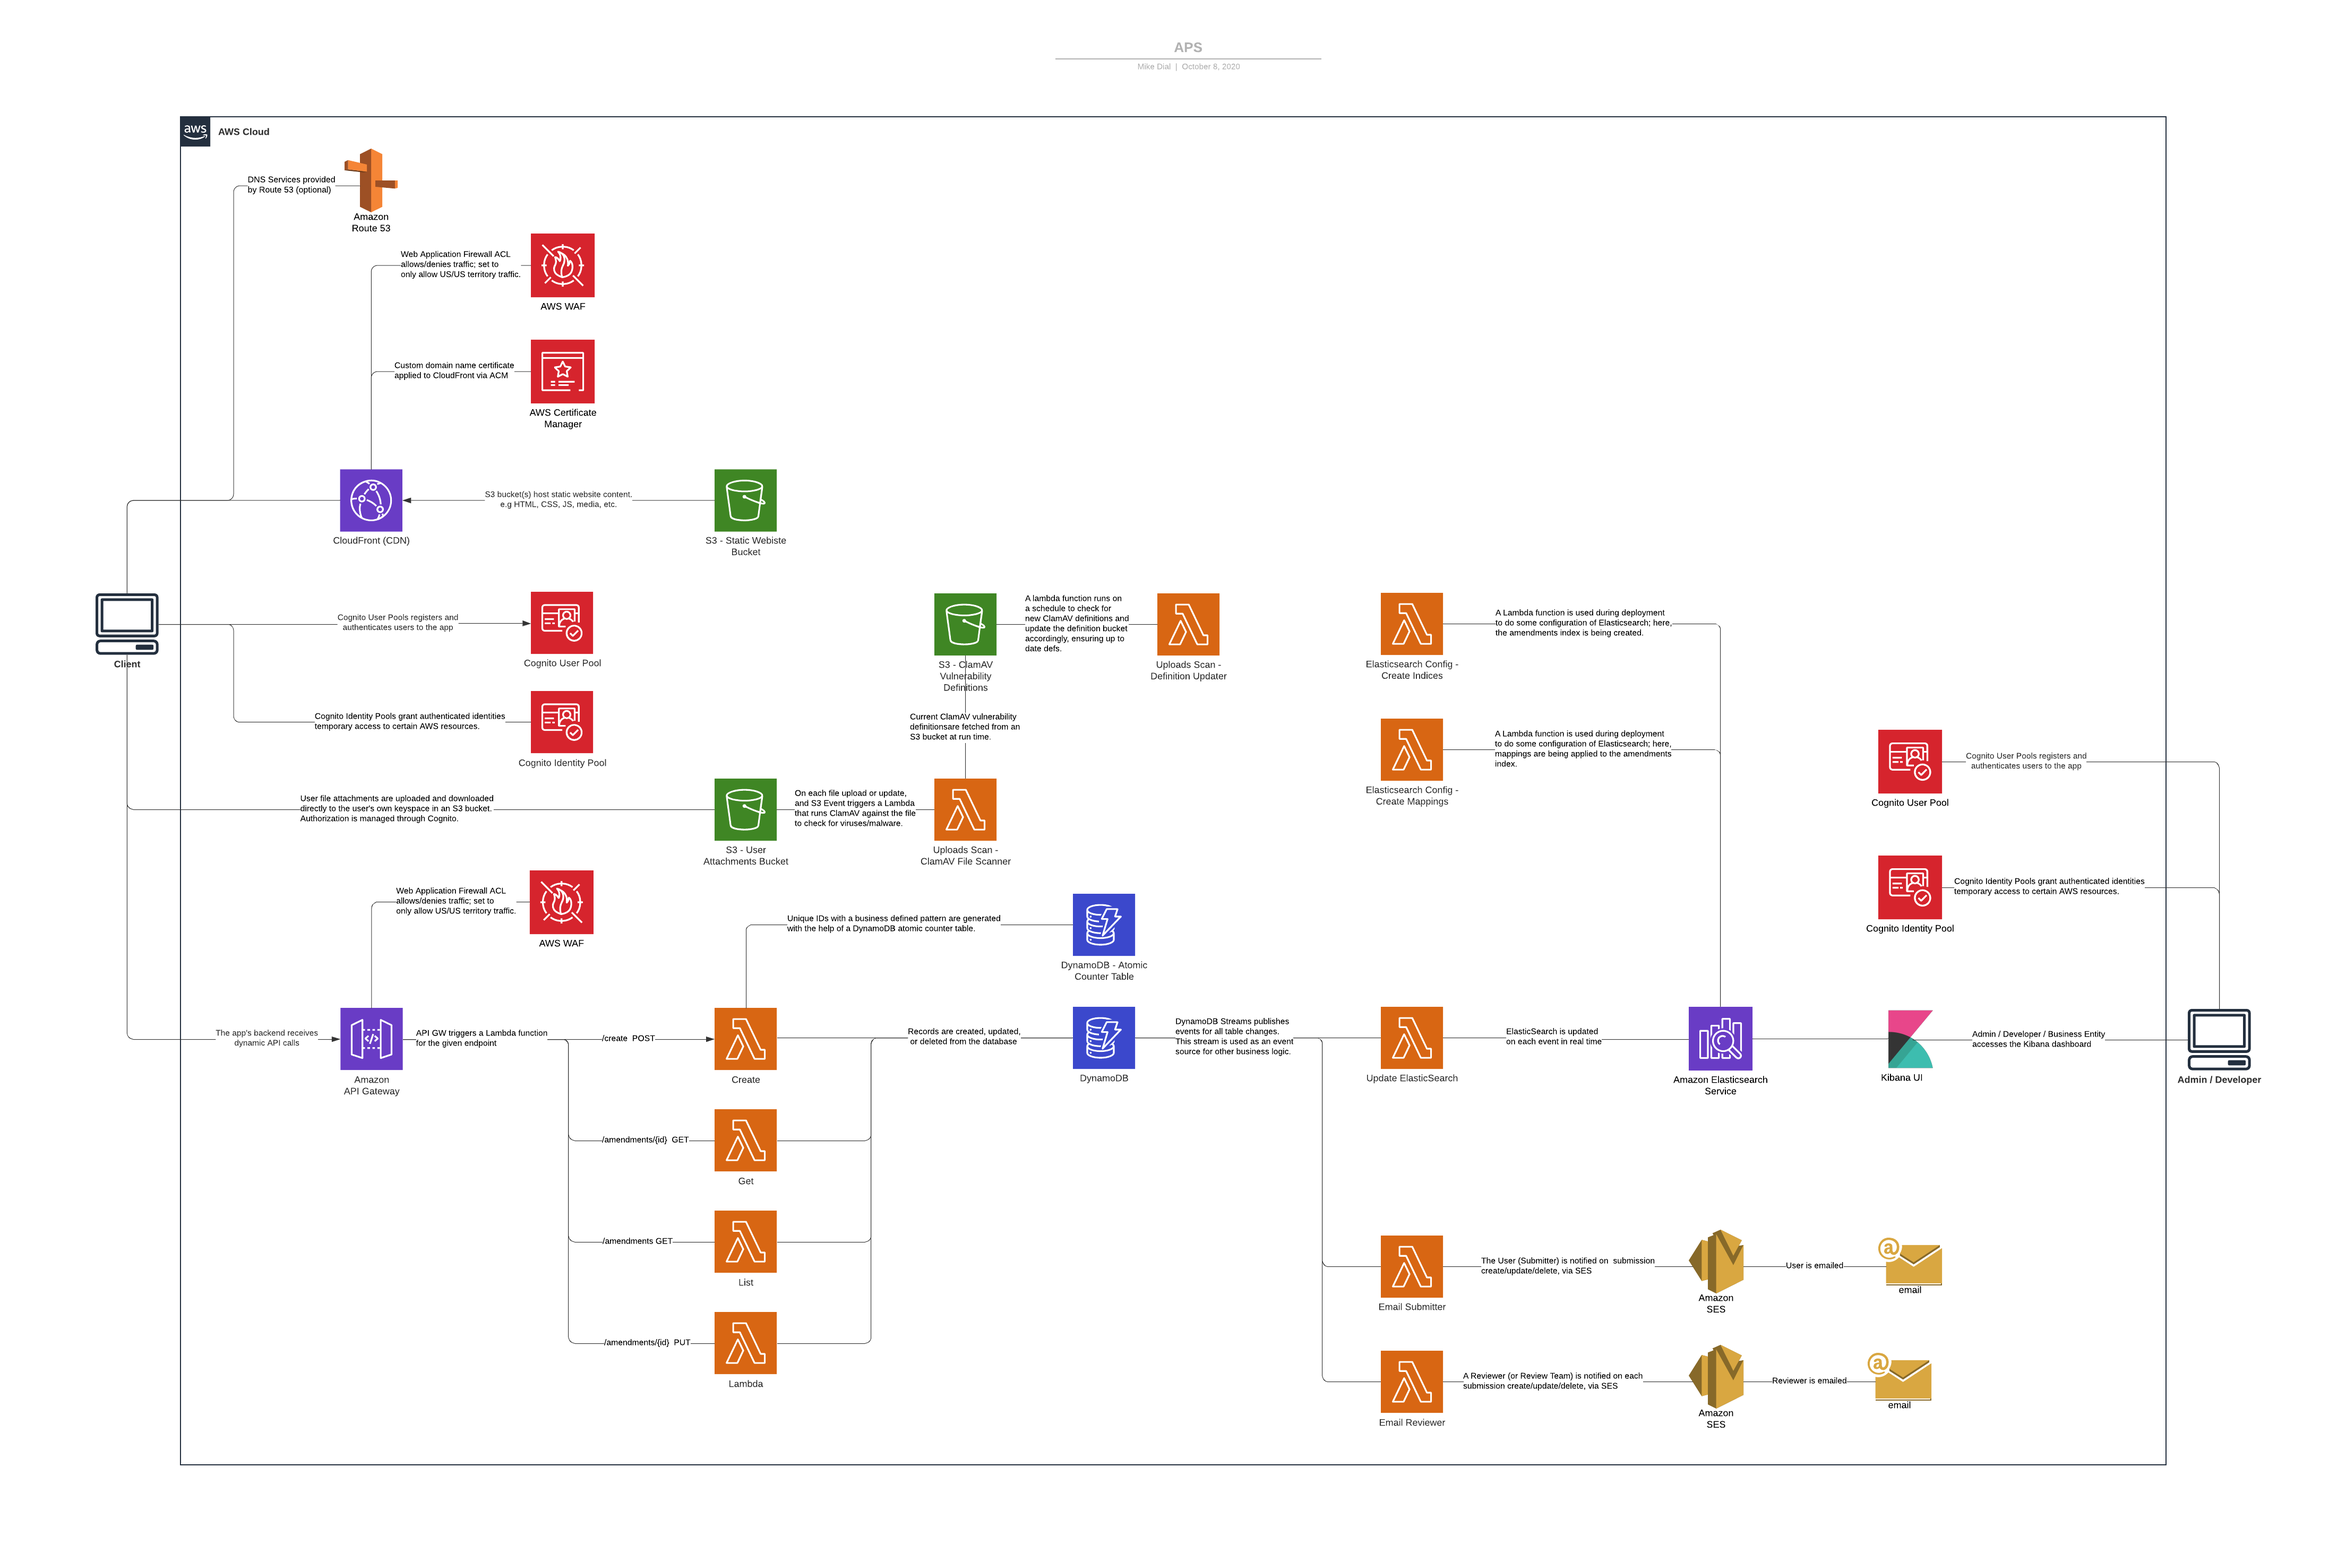
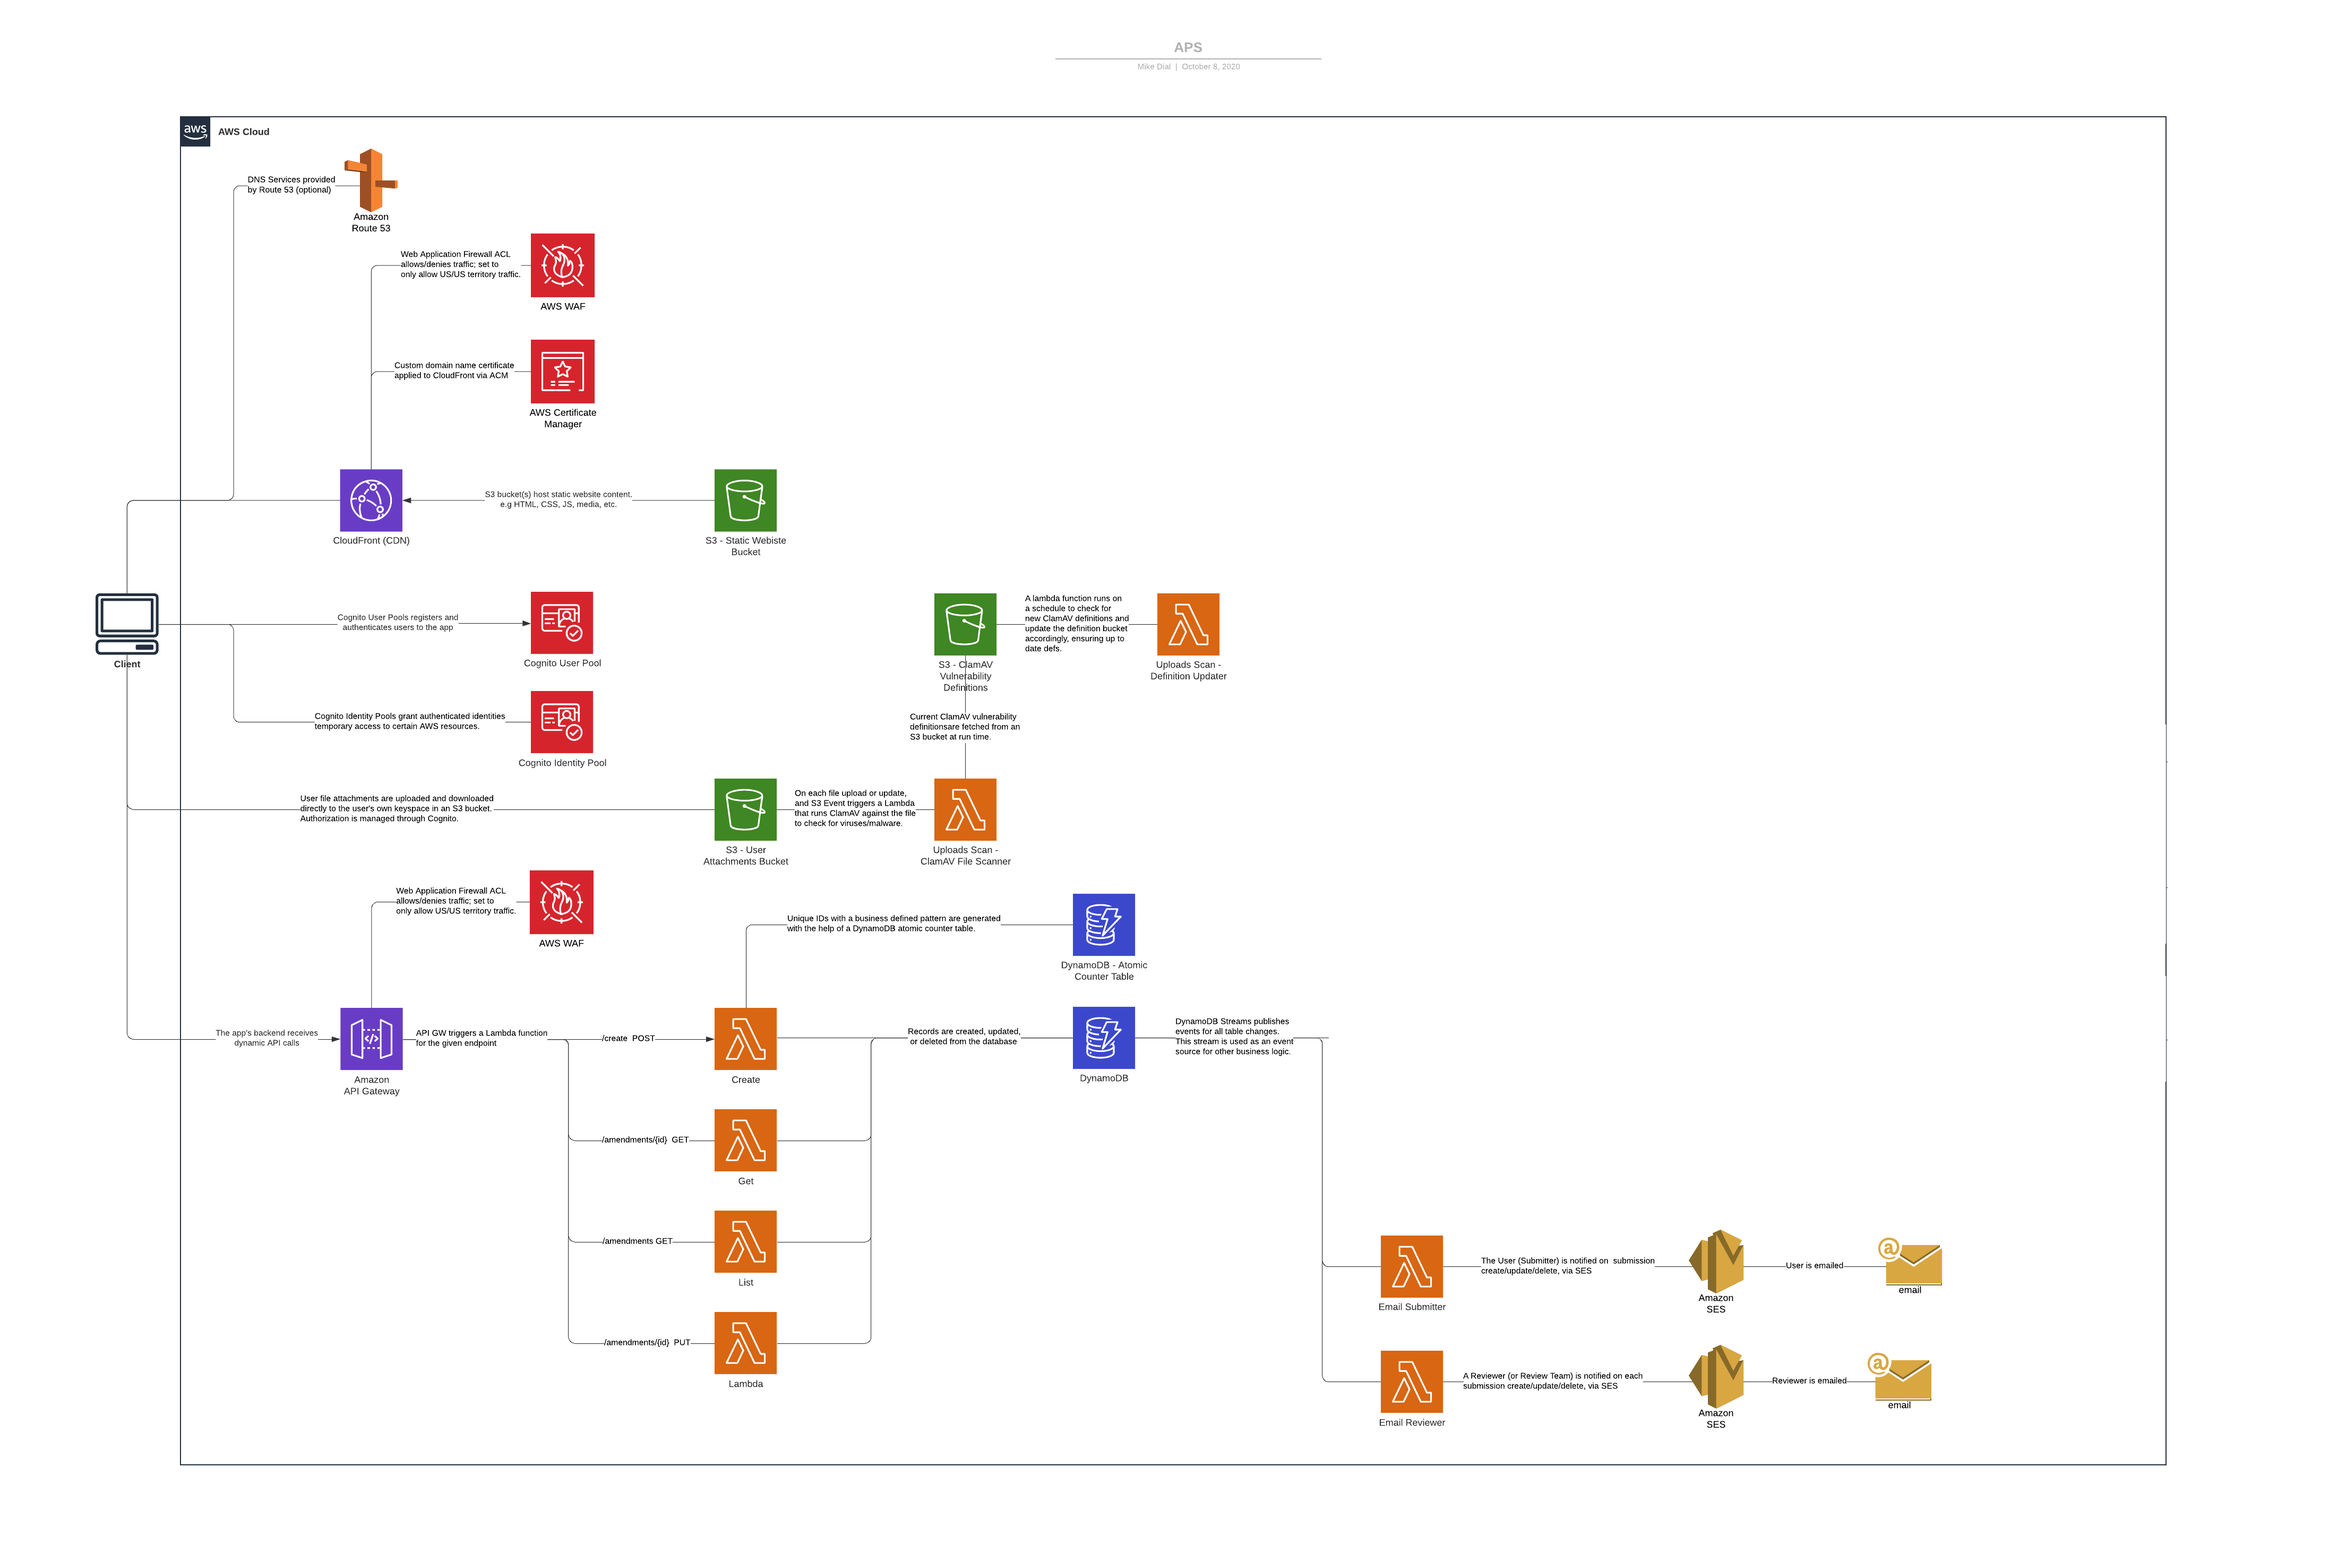
Removed references of Elasticsearch and updated Architecture Diagram

diff --git a/services/stream-functions/handlers/elasticsearchIndexer.js b/services/stream-functions/handlers/elasticsearchIndexer.js
@@ -1,5 +1,3 @@
-const { pushStream } = require("dynamodb-stream-elasticsearch");
-
 const { ES_ENDPOINT_URL, INDEX, TYPE } = process.env;
 
 function myHandler(event, context, callback) {
